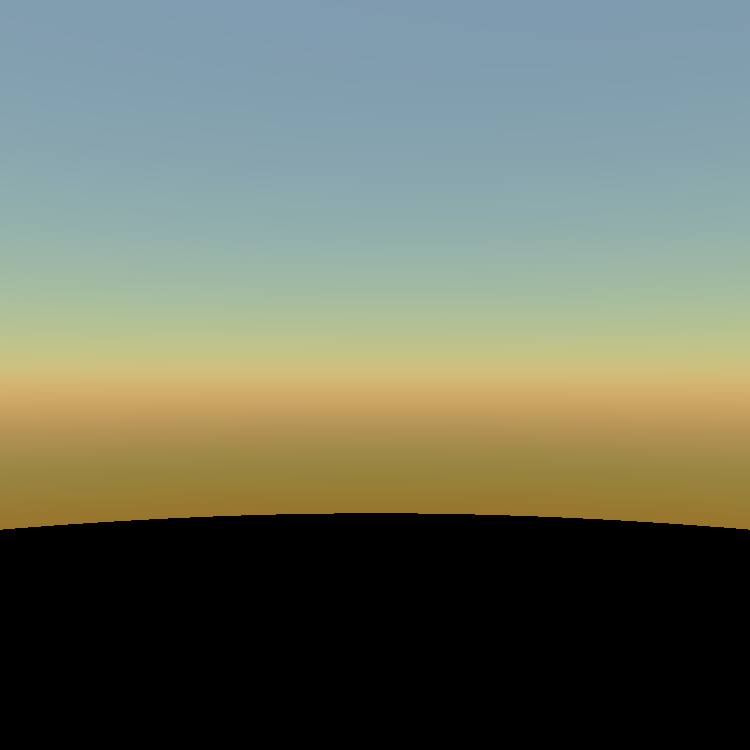
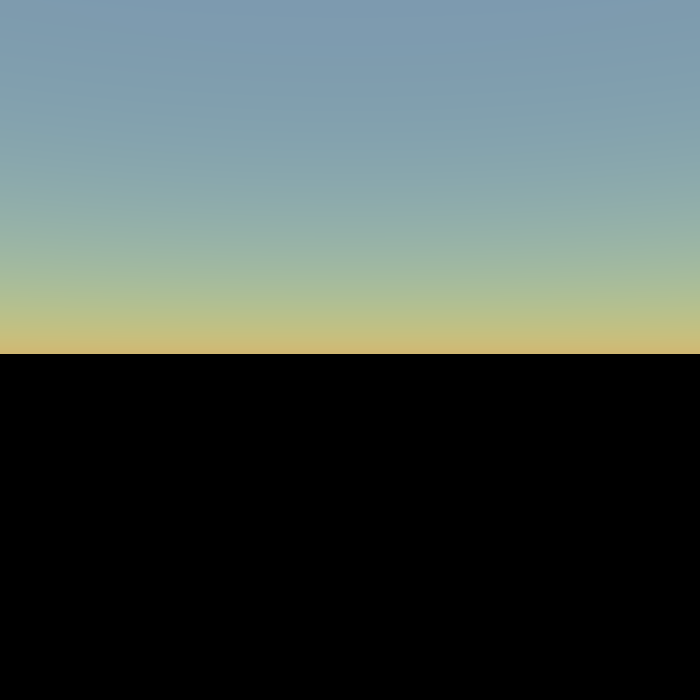
edit post

Changed region(s): [[0.0, 0.48, 1.0, 0.72]]

diff --git a/_posts/scene/2025-02-17-procedural.md b/_posts/scene/2025-02-17-procedural.md
@@ -46,7 +46,7 @@ sun_pos = sun_rd * 1000.0;
 ## 大气的形状
 大气是环绕行星的气体环，地球半径很大(6300km)，大气高度很低(100KM)。  
 有时候对这种形状理解不充足，比如水平线以上的(可视)空间实际上是一**圆段**。朝着水平方向看见比单个垂直高度多得多的空间是很正常的。  
-不得不提的是，下方还存在一些空隙，从两个对称的圆段角开始。  
+不得不提的是，小球体下方存在一些空隙如何解释？这两个对称的圆段角开始的地方在微分情况下可视为平面，因此很难看到下方。  
 
 有时候需要评估到该大气边缘的距离，我们可以采用真实的数据。除了实际计算交叉地球和大气，如果只是不深思熟虑地在单位球中进行采样将不匹配该形状。  
 我将提到一种更简单的非交叉方法。该近似方式根据角度缩放天顶处的单位高度(zenith = 1)以获得比率。因此可在可观的穹掠角获得类似的结果，在到达0.5Pi = 1.7之前将得到很高的值。我们可以只是说该距离大约比到天顶大`d`倍。  
@@ -155,7 +155,7 @@ vec3 atmosphere( in vec3 ro, in vec3 rd, in vec3 sd) {
   const float hm = 1.2e3;
   const float g = 0.76;
 
-  // 将用户输入位置参考到地球中心的位系中，地面处为半径，高度为ro - re
+  // 将输入位置参考到地球中心的位系中，地面处为半径，当前高度为ro - re
   ro += vec3(0.0, re, 0.0);
   float t = iSphere(ro, rd, vec3(0.0), ra).y; // ro -> t
 
@@ -170,50 +170,51 @@ vec3 atmosphere( in vec3 ro, in vec3 rd, in vec3 sd) {
     ((2.0 + g * g) * pow(1.0 + g * g - 2.0 * g * cos_theta, 1.5));
 
   vec3 R = vec3(0.0), M = vec3(0.0); // 重复mie
-  float Rbeta_total = 0.0, Mbeta_total = 0.0; // 重复mie
+  float R_tmp = 0.0, M_tmp = 0.0; // 重复mie
 
   for (int i = 1; i <= int(segement); i++) {
-    // 计算T1
     float h = length(ro) - re;
+    // 如果朝着地球，那么始终length(ro) < re，即使太阳在下方也没有意义因为这里是大地而不是空气
+    if (h < 0.0) return vec3(0.0);
 
-    Rbeta_total += exp(-h / hr) * dx;
-    vec3 RT1 = exp(-Rbeta0 * Rbeta_total);
-    Mbeta_total += exp(-h / hm) * dx; // 重复mie
-    vec3 MT1 = exp(-Mbeta0 * Mbeta_total) * 1.1; // betaE * 1.1
+    // 优化1：存储消光量，减少exp调用
+    float Re = exp(-h / hr), Me = exp(-h / hm);
+    R_tmp += Re * dx;
+    M_tmp += Me * dx; // 重复mie
 
-    // 计算S、和T2(发射sd)
+    // 计算T2(发射sd)
     float segement2 = 8.0;
     vec3 ro2 = ro;
     float t2 = iSphere(ro2, sd, vec3(0.0), ra).y;
     float dx2 = t2 / segement2;
-
-    float Rbeta_total2, Mbeta_total2 = 0.0; // 重复mie
+    float R_tmp2, M_tmp2 = 0.0; // 重复mie
     for (int j = 1; j <= int(segement2); j++) {
       float h2 = length(ro2) - re;
 
-      Rbeta_total2 += exp(-h2 / hr) * dx2;
-      Mbeta_total2 += exp(-h2 / hm) * dx2; // 重复mie
+      R_tmp2 += exp(-h2 / hr) * dx2;
+      M_tmp2 += exp(-h2 / hm) * dx2; // 重复mie
 
       ro2 += sd * dx2;
     }
-    vec3 RT2 = exp(-Rbeta0 * Rbeta_total2);
-    vec3 MT2 = exp(-Mbeta0 * Mbeta_total2) * 1.1; // 重复mie
 
-    // 累积到结果，注意只是积分项
-    R += RT1 * RT2 * Rbeta0 * exp(-h / hr) * dx;
-    M += MT1 * MT2 * Mbeta0 * exp(-h / hm) * dx;
+    vec3 RTT2 = exp(-Rbeta0 * (R_tmp + R_tmp2));
+    vec3 MTT2 = exp(-Mbeta0 * (M_tmp + M_tmp2) * 1.1); // 重复mie 消光 * 1.1
+
+    // 累积到结果，注意R只是积分项。并且我们将Rbeta0 * Re的常数被移动到外面
+    R += RTT2 * Re * dx;
+    M += MTT2 * Me * dx;
 
     // 之后再移动
     ro += rd * dx;
   }
-  return sunbase * (Rphase * R + Mphase * M);
-  return sunbase * Mphase * M;
-  return sunbase * Rphase * R;
+  return sunbase * (Rphase * R * Rbeta0 + Mphase * M * Mbeta0);
+  return sunbase * Mphase * M * Mbeta0;
+  return sunbase * Rphase * R * Rbeta0;
 }
 ```
 <div class="x gr txac">
   <div class="x la flex mg0">
-    <div class="x la item6-lg item12 pd0">
+    <div class="x la item5-lg item12 pd0">
       <img src="/assets/i/6-1.png">
     </div>
   </div>
@@ -315,25 +316,22 @@ Cumulus  堆(积)云
 样本、噪声、位置全都不符合任何一种云的特征。我们至少应该拒绝这种技术并认为最根本的起点必须选择更好的"容器"来表达FBM，至少不能是平面！尽管此FBM可能只能类似地接近一种云，但这至少是合理的并且让我们感到满意的一个开始。  
 卷须云的体积可能更难，因此最终决定致力于一种简单形状云的实现。积云符合一般人对云的直觉。  
 
-相反，我们使用体积渲染一个环状空间。从技术上讲，透射必须合并背景大气，因此对Sky的调用成本会增加非常多。有时分为两个函数是有意义的。  
+现在我们使用体积渲染一个环状空间。从技术上讲，体积渲染必须合并背景大气，为了减少Sky函数的调用成本，有时分为两个函数是有意义的。例如，在考虑光照时仅使用不包含体积云的天空。  
 ```ruby
-∫all_line_dx|TS dx
-                    # Li随着深度衰减
-approximate S = βS*ρ ∫(C * T2)
-
-~= ρC ∫(T1βST2)dx
-
-# clamp((vec3(1.0) * phase * integral), vec3(0.0), vec3(1.0)) + sky * exp(-tmp_t);
+Lo = Cρ ∫all_line_dx|T(p)T2(p)βS(p)dx
 ```
 <div class="x gr txac">
   <div class="x la flex mg0">
-    <div class="x la item6-lg item12 pd0">
+    <div class="x la item5-lg item12 pd0">
       <img src="/assets/i/6-2.png">
     </div>
   </div>
   <p>图3：厚度为2.0的云层在特定太阳方向上的照明</p>
 </div>
 我们看到，这种算法很慢。且位于太阳视野外的云是全黑的，尽管这是有道理的，我们的场景天空较亮，除非我们只看向太阳。如果再考虑天空的贡献将导致该算法成本过高而不可用。  
+
+## 近似云
+我们可能期望找到一种更便宜的云。
 
 ## D. 
 ## 环境光遮蔽
